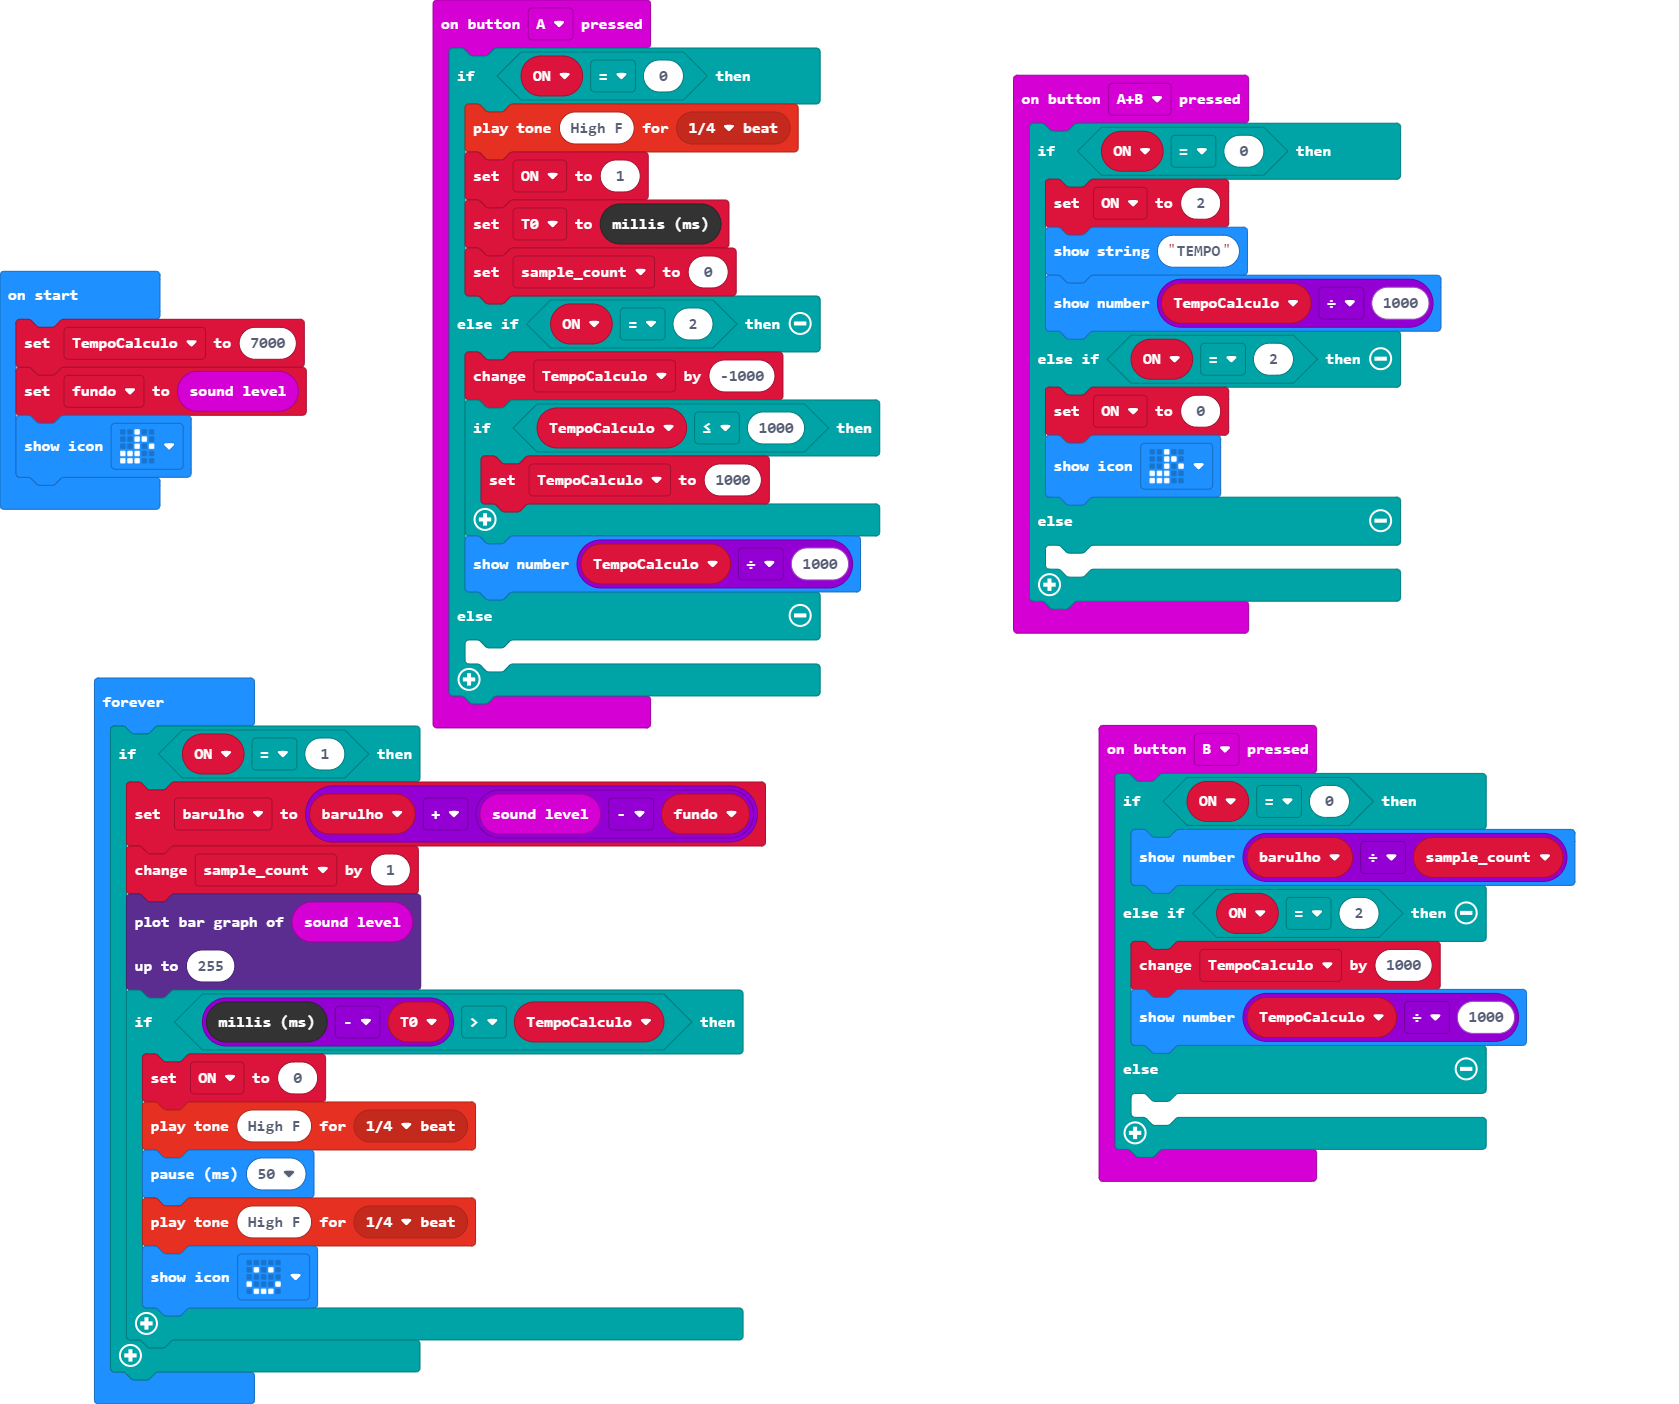
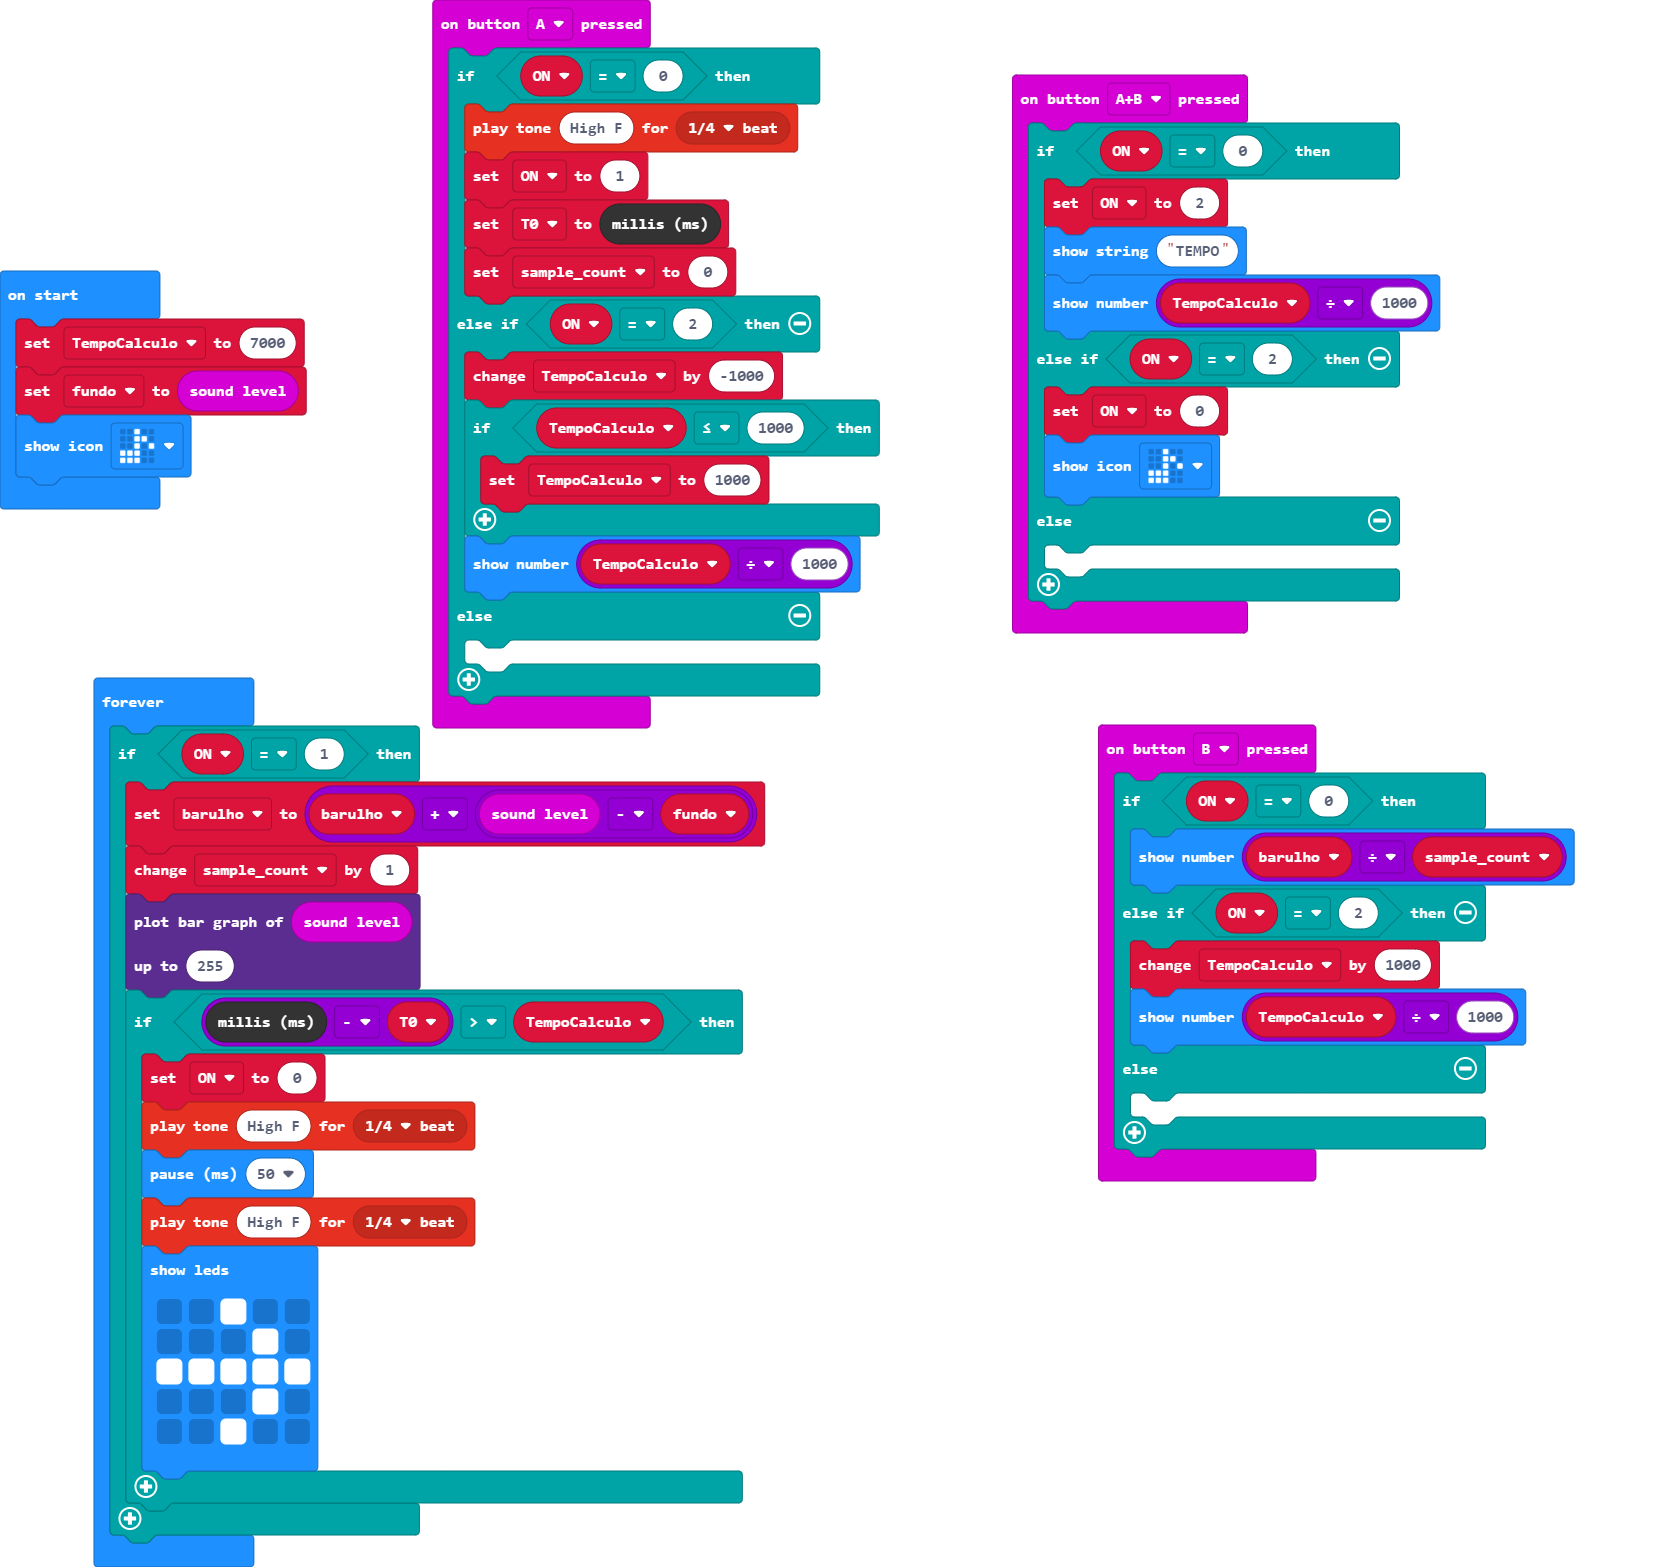
Tirar emoji

diff --git a/main.ts b/main.ts
@@ -57,7 +57,13 @@ basic.forever(function () {
             music.playTone(698, music.beat(BeatFraction.Quarter))
             basic.pause(50)
             music.playTone(698, music.beat(BeatFraction.Quarter))
-            basic.showIcon(IconNames.Happy)
+            basic.showLeds(`
+                . . # . .
+                . . . # .
+                # # # # #
+                . . . # .
+                . . # . .
+                `)
         }
     }
 })
